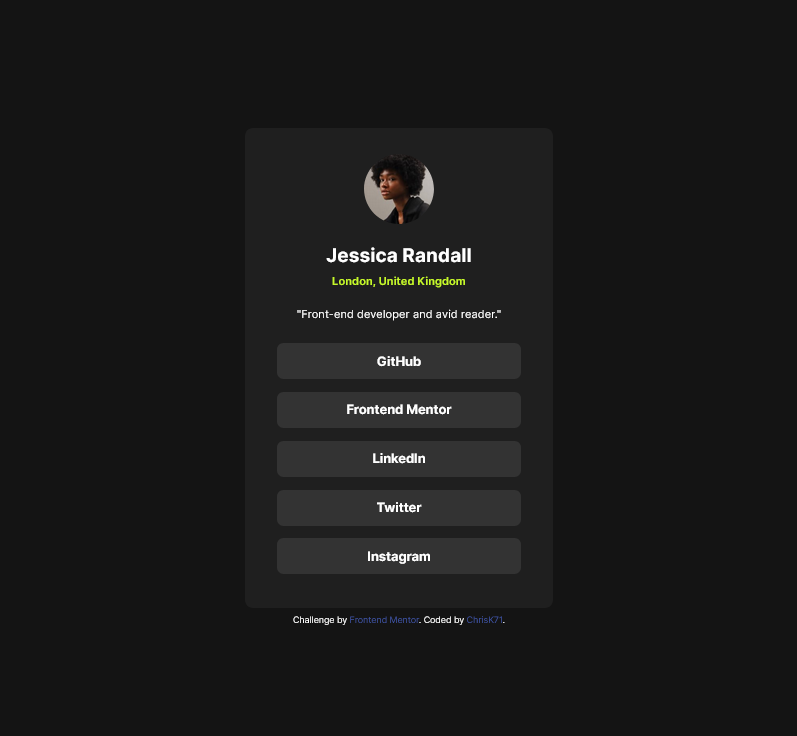
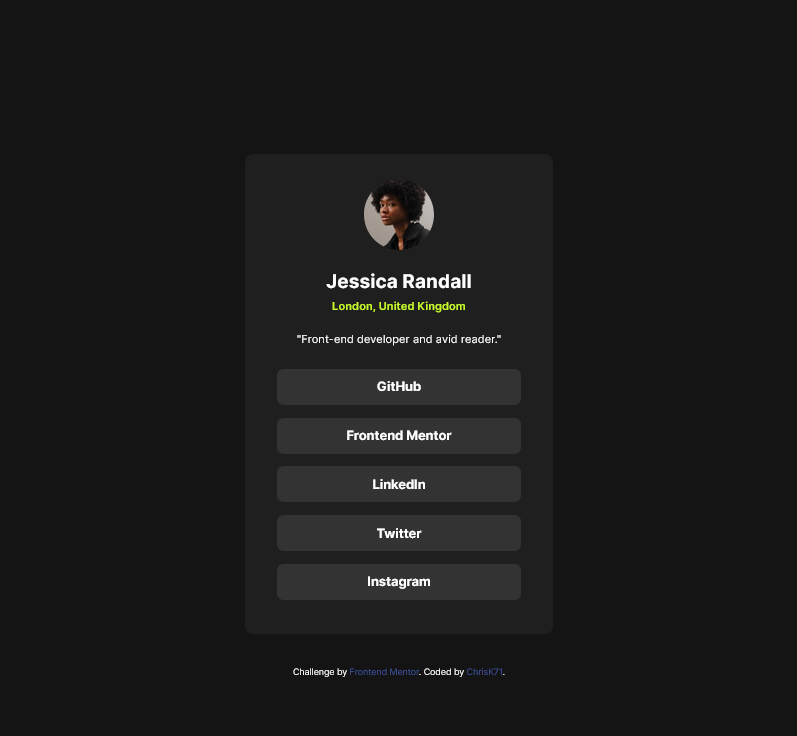
Moved card down additional 2rem to match design

Changed region(s): [[0.3915, 0.2188, 0.6324, 0.8125], [0.3614, 0.9062, 0.6324, 0.9375]]

diff --git a/style.css b/style.css
@@ -25,7 +25,7 @@ body {
 }
 
 #links-profile-container {
-  margin: 10rem auto;
+  margin: 12rem auto;
   width: 384px;
   height: 600px;
   background-color: var(--dark-grey);
